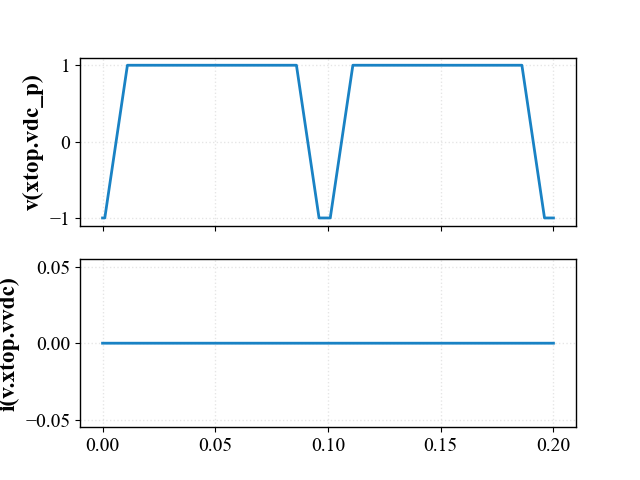
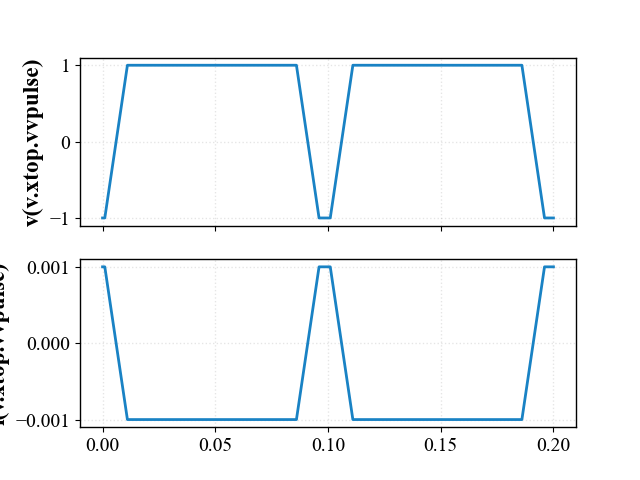
FEAT: Working SPICE

diff --git a/docs/examples/04_spice_cosimulation/04_spice_cosimulation.py b/docs/examples/04_spice_cosimulation/04_spice_cosimulation.py
@@ -384,7 +384,7 @@ results = piel.run_simulation(simulation=simple_operating_point_simulation)
 results
 
 # ```python
-# SimResult(an=[OpResult(analysis_name='operating_point_tb', data={'v(xtop.vdc_p)': 1.0, 'i(v.xtop.vvdc)': 0.0})])
+# SimResult(an=[OpResult(analysis_name='operating_point_tb', data={'v(xtop.vdc_p)': 1.0, 'i(v.xtop.vvdc)': -0.001})])
 # ```
 
 # We can access the data as a dictionary too:
@@ -392,7 +392,7 @@ results
 results.an[0].data
 
 # ```python
-# {'v(xtop.vdc_p)': 1.0, 'i(v.xtop.vvdc)': 0.0}
+# {'v(xtop.vdc_p)': 1.0, 'i(v.xtop.vvdc)': -0.001}
 # ```
 
 # #### A Simple Transient Simulation
@@ -445,28 +445,28 @@ piel.run_simulation(simple_transient_simulation, to_csv=True)
 transient_simulation_results = pd.read_csv("TransientTb.csv")
 transient_simulation_results.iloc[20:40]
 
-# |    | Unnamed: 0 |    time | v(xtop.vdc_p) | i(v.xtop.vvdc) |
-# |---:|----------:|--------:|--------------:|--------------:|
-# | 20 |        20 | 0.00107 |        -0.986 |            0  |
-# | 21 |        21 | 0.00115 |        -0.97  |            0  |
-# | 22 |        22 | 0.00125 |        -0.95  |            0  |
-# | 23 |        23 | 0.00135 |        -0.93  |            0  |
-# | 24 |        24 | 0.00145 |        -0.91  |            0  |
-# | 25 |        25 | 0.00155 |        -0.89  |            0  |
-# | 26 |        26 | 0.00165 |        -0.87  |            0  |
-# | 27 |        27 | 0.00175 |        -0.85  |            0  |
-# | 28 |        28 | 0.00185 |        -0.83  |            0  |
-# | 29 |        29 | 0.00195 |        -0.81  |            0  |
-# | 30 |        30 | 0.00205 |        -0.79  |            0  |
-# | 31 |        31 | 0.00215 |        -0.77  |            0  |
-# | 32 |        32 | 0.00225 |        -0.75  |            0  |
-# | 33 |        33 | 0.00235 |        -0.73  |            0  |
-# | 34 |        34 | 0.00245 |        -0.71  |            0  |
-# | 35 |        35 | 0.00255 |        -0.69  |            0  |
-# | 36 |        36 | 0.00265 |        -0.67  |            0  |
-# | 37 |        37 | 0.00275 |        -0.65  |            0  |
-# | 38 |        38 | 0.00285 |        -0.63  |            0  |
-# | 39 |        39 | 0.00295 |        -0.61  |            0  |
+# |    | Unnamed: 0 |    time | v(xtop.vpulse_p) | s |
+# |---:|----------:|--------:|-----------------:|------------------:|
+# | 20 |        20 | 0.00107 |           -0.986 |          0.000986 |
+# | 21 |        21 | 0.00115 |           -0.97  |          0.00097  |
+# | 22 |        22 | 0.00125 |           -0.95  |          0.00095  |
+# | 23 |        23 | 0.00135 |           -0.93  |          0.00093  |
+# | 24 |        24 | 0.00145 |           -0.91  |          0.00091  |
+# | 25 |        25 | 0.00155 |           -0.89  |          0.00089  |
+# | 26 |        26 | 0.00165 |           -0.87  |          0.00087  |
+# | 27 |        27 | 0.00175 |           -0.85  |          0.00085  |
+# | 28 |        28 | 0.00185 |           -0.83  |          0.00083  |
+# | 29 |        29 | 0.00195 |           -0.81  |          0.00081  |
+# | 30 |        30 | 0.00205 |           -0.79  |          0.00079  |
+# | 31 |        31 | 0.00215 |           -0.77  |          0.00077  |
+# | 32 |        32 | 0.00225 |           -0.75  |          0.00075  |
+# | 33 |        33 | 0.00235 |           -0.73  |          0.00073  |
+# | 34 |        34 | 0.00245 |           -0.71  |          0.00071  |
+# | 35 |        35 | 0.00255 |           -0.69  |          0.00069  |
+# | 36 |        36 | 0.00265 |           -0.67  |          0.00067  |
+# | 37 |        37 | 0.00275 |           -0.65  |          0.00065  |
+# | 38 |        38 | 0.00285 |           -0.63  |          0.00063  |
+# | 39 |        39 | 0.00295 |           -0.61  |          0.00061  |
 #
 
 # We can plot our simulation data accordingly:
@@ -478,9 +478,8 @@ simple_transient_plot = piel.visual.plot_simple_multi_row(
         "v(xtop.vpulse_p)",
         "i(v.xtop.vvpulse)",
     ],
-    y_axis_title_list=["v(xtop.vpulse_p)", "i(v.xtop.vvpulse)", "o4 Phase"],
+    y_axis_title_list=["v(v.xtop.vvpulse)", "i(v.xtop.vvpulse)", "o4 Phase"],
 )
-# simple_transient_plot.savefig("simple_transient_plot.png")
 
 # ![simple_transient_plot](../../_static/img/examples/04_spice_cosimulation/simple_transient_plot.PNG)
 
